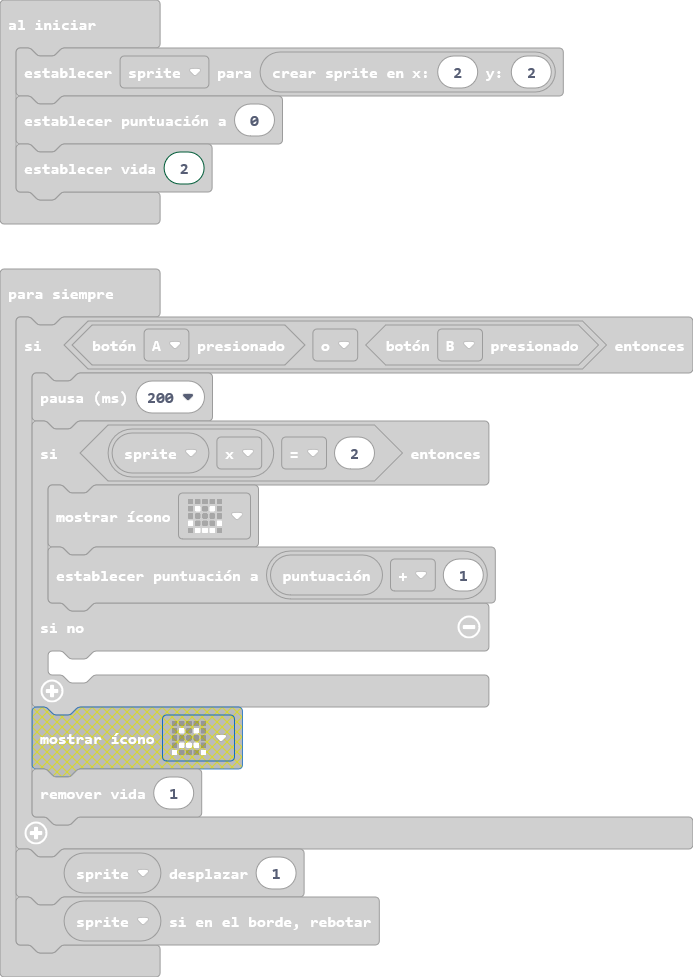
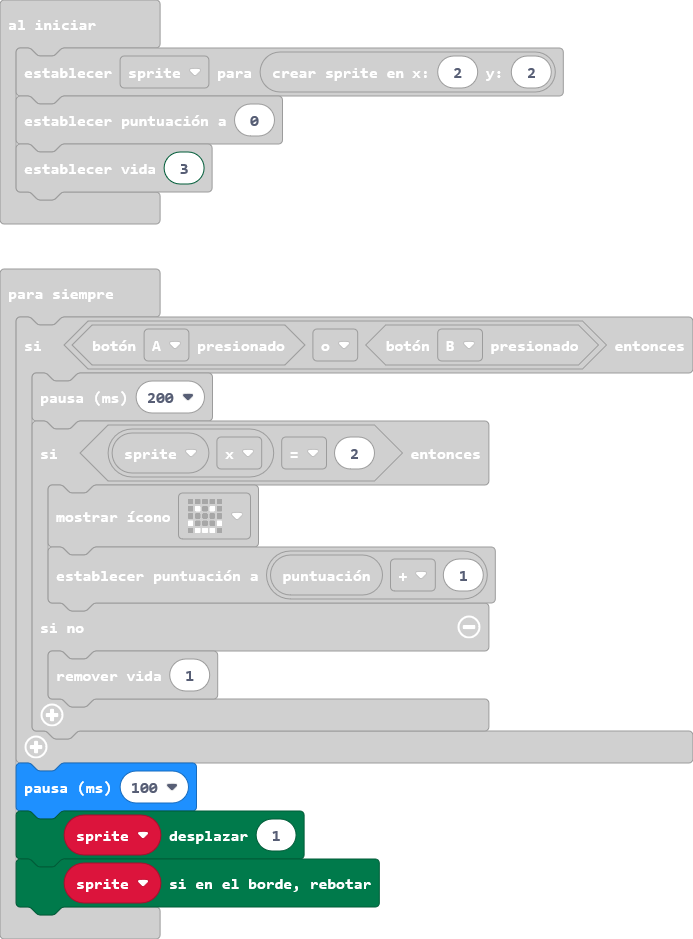
pausa

Changed region(s): [[0.0, 0.0309, 1.0, 0.9883]]

diff --git a/main.ts b/main.ts
@@ -1,6 +1,6 @@
 let sprite = game.createSprite(2, 2)
 game.setScore(0)
-game.setLife(2)
+game.setLife(3)
 basic.forever(function () {
     if (input.buttonIsPressed(Button.A) || input.buttonIsPressed(Button.B)) {
         basic.pause(200)
@@ -11,6 +11,7 @@ basic.forever(function () {
             game.removeLife(1)
         }
     }
+    basic.pause(100)
     sprite.move(1)
     sprite.ifOnEdgeBounce()
 })
